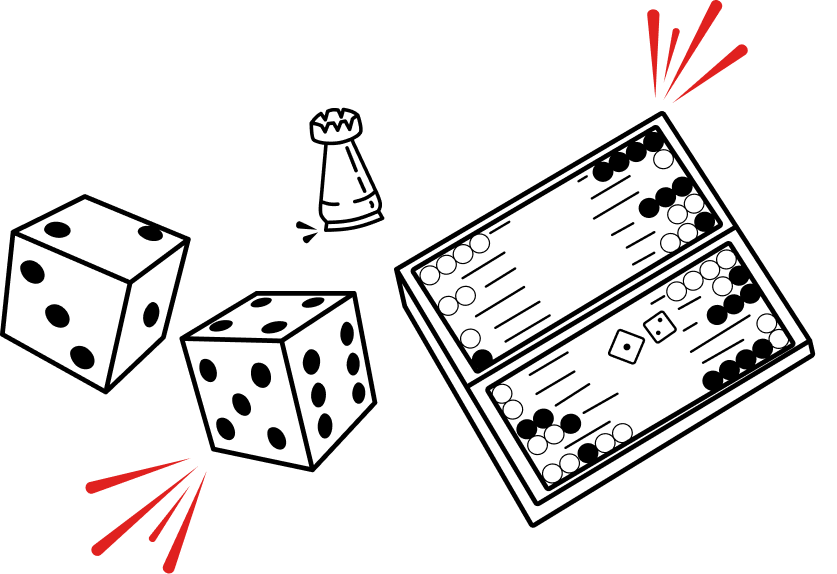
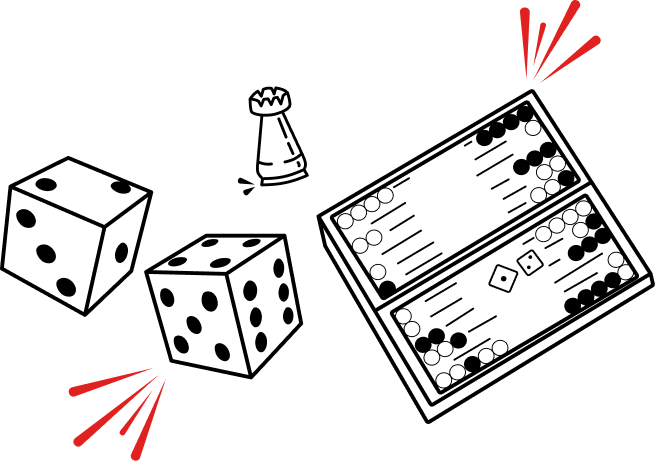
indsæt af stemningsbilleder
under hero billedet indsat stemningsbilleder

diff --git a/index.html b/index.html
@@ -46,11 +46,13 @@
         fetchpriority="high"
       />
       </div>
-      
-      <div class="home-mood">
-        <img src="images/stemningsbillede.jpg" alt="Gæster sidder og spiller spil hos Spilcaféen" />
-        <img src="images/spil-reol.png" alt="Reol med udvalget af Spilcaféens spil" />
-        <img src="images/terninger.png" alt="Nærbillede af terninger der bliver kastet" />
+
+      <div class="home-mood" aria-label="Stemningsbilleder">
+        <img src="images/stemning1.jpg" alt="Stemningsbillede af brætspil" />
+        <img src="images/stemning2.jpg" alt="Stemningsbillede af reolen i Spilcaféen" />
+        <img src="images/stemning3.jpg" alt="Stemningsbillede af kaffe i caféen" />
+        <img src="images/stemning4.jpg" alt="Stemningsbillede af folk der spiller kort" />
+        <img src="images/stemning5.jpg" alt="Stemningsbillede af et sæt terninger" />
       </div>
     </section>
 

diff --git a/app.css b/app.css
@@ -923,9 +923,11 @@ FORSIDE (home-view)
   width: 100%;
   height: auto;
   aspect-ratio: 4/3;
-  object-fit: cover;
-  border-radius: var(--radius);
-  box-shadow: var(--shadow);
+  object-fit: contain;
+  background: transparent;
+  border: 0;
+  border-radius: 0;
+  box-shadow: none;
   display: block;
 }
 
@@ -1009,17 +1011,24 @@ FORSIDE (home-view)
 
 .home-mood {
   display: grid;
-  grid-template-columns: repeat(3, 1fr);
-  gap: 10px;
+  grid-template-columns: repeat(5, minmax(0, 1fr));
+  gap: 12px;
+  margin-top: 24px;
 }
 
 .home-mood img {
   width: 100%;
   aspect-ratio: 4/3;
   object-fit: cover;
-  border-radius: var(--radius);
-  box-shadow: var(--shadow);
+  border-radius: 0;
+  box-shadow: none;
   display: block;
+}
+
+@media (max-width: 900px) {
+  .home-mood {
+    grid-template-columns: repeat(2, minmax(0, 1fr));
+  }
 }
 
 @media (max-width: 640px) {
